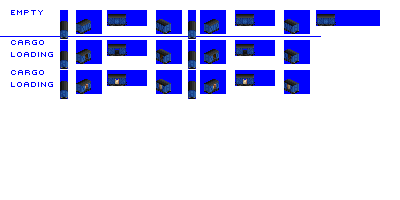
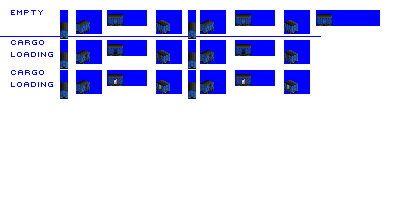
Change: (WIP) test a bunch of vehicles conforming to 4/8, 8/8 and 12/8 lengths

diff --git a/src/vehicles/box_cars.py b/src/vehicles/box_cars.py
@@ -7,36 +7,36 @@ def main():
                          roster = 'pony',
                          base_numeric_id = 550,
                          wagon_generation = 1,
-                                    intro_date = 1860,
+                         intro_date = 1860,
                          vehicle_life = 40)
 
     consist.add_unit(BoxCar(consist = consist,
                             capacity_freight = 20,
                             capacity_mail = 30,
                             weight = 12,
-                            vehicle_length = 5))
+                            vehicle_length = 4))
 
     consist.add_model_variant(intro_date=0,
                            end_date=global_constants.max_game_date,
                            graphics_processor=consist.graphics_processors['pass_through'])
 
     consist.add_model_variant(intro_date=0,
-                           end_date=global_constants.max_game_date,
-                           graphics_processor=consist.graphics_processors['swap_company_colours'])
+                              end_date=global_constants.max_game_date,
+                              graphics_processor=consist.graphics_processors['swap_company_colours'])
 
 
     consist = BoxConsist(title = '[Box Car]',
                          roster = 'pony',
                          base_numeric_id = 560,
                          wagon_generation = 2,
-                                    intro_date = 1950,
+                         intro_date = 1950,
                          vehicle_life = 40)
 
     consist.add_unit(BoxCar(consist = consist,
                             capacity_freight = 35,
                             capacity_mail = 45,
                             weight = 18,
-                            vehicle_length = 6))
+                            vehicle_length = 4))
 
     consist.add_model_variant(intro_date=0,
                            end_date=global_constants.max_game_date,
@@ -51,14 +51,14 @@ def main():
                          roster = 'pony',
                          base_numeric_id = 570,
                          wagon_generation = 3,
-                                    intro_date = 1995,
+                         intro_date = 1995,
                          vehicle_life = 40)
 
     consist.add_unit(BoxCar(consist = consist,
                             capacity_freight = 55,
                             capacity_mail = 65,
                             weight = 25,
-                            vehicle_length = 10))
+                            vehicle_length = 8))
 
     consist.add_model_variant(intro_date=0,
                            end_date=global_constants.max_game_date,

diff --git a/src/vehicles/hopper_cars.py b/src/vehicles/hopper_cars.py
@@ -7,13 +7,13 @@ def main():
                             roster = 'pony',
                             base_numeric_id = 1070,
                             wagon_generation = 1,
-                                          intro_date = 1910,
+                            intro_date = 1910,
                             vehicle_life = 40)
 
     consist.add_unit(Wagon(consist = consist,
                            capacity_freight = 30,
                            weight = 10,
-                           vehicle_length = 5))
+                           vehicle_length = 4))
 
     consist.add_model_variant(intro_date=0,
                            end_date=global_constants.max_game_date,
@@ -28,7 +28,7 @@ def main():
                             roster = 'pony',
                             base_numeric_id = 1080,
                             wagon_generation = 2,
-                                          intro_date = 1955,
+                            intro_date = 1955,
                             vehicle_life = 40)
 
     consist.add_unit(Wagon(consist = consist,
@@ -49,13 +49,13 @@ def main():
                             roster = 'pony',
                             base_numeric_id = 1090,
                             wagon_generation = 3,
-                                          intro_date = 1995,
+                            intro_date = 1995,
                             vehicle_life = 40)
 
     consist.add_unit(Wagon(consist = consist,
                            capacity_freight = 75,
                            weight = 27,
-                           vehicle_length = 10))
+                           vehicle_length = 8))
 
     consist.add_model_variant(intro_date=0,
                            end_date=global_constants.max_game_date,

diff --git a/src/vehicles/edibles_tank_cars.py b/src/vehicles/edibles_tank_cars.py
@@ -7,14 +7,14 @@ def main():
                                  roster = 'pony',
                                  base_numeric_id = 1190,
                                  wagon_generation = 1,
-                                                    intro_date = 1905,
+                                 intro_date = 1905,
                                  vehicle_life = 40,
                                  speedy = True)
 
     consist.add_unit(Wagon(consist = consist,
-                            capacity_freight = 25,
-                            weight = 12,
-                            vehicle_length = 5))
+                           capacity_freight = 25,
+                           weight = 12,
+                           vehicle_length = 4))
 
     consist.add_model_variant(intro_date=0,
                            end_date=global_constants.max_game_date,
@@ -31,14 +31,14 @@ def main():
                                  roster = 'pony',
                                  base_numeric_id = 1200,
                                  wagon_generation = 3,
-                                                    intro_date = 1988,
+                                 intro_date = 1988,
                                  vehicle_life = 40,
                                  speedy = True)
 
     consist.add_unit(Wagon(consist = consist,
-                            capacity_freight = 40,
-                            weight = 30,
-                            vehicle_length = 8))
+                           capacity_freight = 40,
+                           weight = 30,
+                           vehicle_length = 8))
 
     consist.add_model_variant(intro_date=0,
                            end_date=global_constants.max_game_date,

diff --git a/src/vehicles/open_cars.py b/src/vehicles/open_cars.py
@@ -13,7 +13,7 @@ def main():
     consist.add_unit(Wagon(consist = consist,
                             capacity_freight = 20,
                             weight = 7,
-                            vehicle_length = 5))
+                            vehicle_length = 4))
 
     consist.add_model_variant(intro_date=0,
                            end_date=global_constants.max_game_date,
@@ -34,7 +34,7 @@ def main():
     consist.add_unit(Wagon(consist = consist,
                             capacity_freight = 35,
                             weight = 15,
-                            vehicle_length = 6))
+                            vehicle_length = 4))
 
     consist.add_model_variant(intro_date=0,
                            end_date=global_constants.max_game_date,
@@ -55,7 +55,7 @@ def main():
     consist.add_unit(Wagon(consist = consist,
                             capacity_freight = 55,
                             weight = 25,
-                            vehicle_length = 10))
+                            vehicle_length = 8))
 
     consist.add_model_variant(intro_date=0,
                            end_date=global_constants.max_game_date,
@@ -76,7 +76,7 @@ def main():
 
     consist.add_unit(Wagon(consist = consist,
                            capacity_freight = 12,
-                           weight = 3,
+                           weight = 4,
                            vehicle_length = 3))
 
     consist.add_model_variant(intro_date=0,

diff --git a/src/vehicles/aberdare.py b/src/vehicles/aberdare.py
@@ -4,7 +4,7 @@ from train import EngineConsist, SteamLoco, SteamLocoTender
 consist = EngineConsist(id = 'aberdare',
               base_numeric_id = 0,
               title = '2-6-0 Aberdare [Steam]',
-              power = 1400,
+              power = 1250,
               tractive_effort_coefficient = 0.22,
               speed = 65,
               type_base_buy_cost_points = 12, # dibble buy cost for game balance
@@ -13,12 +13,12 @@ consist = EngineConsist(id = 'aberdare',
 
 consist.add_unit(SteamLoco(consist = consist,
                         weight = 67,
-                        vehicle_length = 6,
+                        vehicle_length = 5,
                         spriterow_num = 0))
 
 consist.add_unit(SteamLocoTender(consist = consist,
                         weight = 40,
-                        vehicle_length = 4,
+                        vehicle_length = 3,
                         spriterow_num = 1))
 
 consist.add_model_variant(intro_date=0,

diff --git a/src/vehicles/chinook.py b/src/vehicles/chinook.py
@@ -4,20 +4,20 @@ from train import EngineConsist, DieselLoco
 consist = EngineConsist(id = 'chinook',
               base_numeric_id = 120,
               title = 'Chinook [Diesel]',
-              power = 2100,
+              power = 3000,
               speed = 85,
               type_base_buy_cost_points = 16, # dibble buy cost for game balance
               vehicle_life = 40,
-              intro_date = 1955)
+              intro_date = 1960)
 
 consist.add_unit(DieselLoco(consist = consist,
                         weight = 80,
-                        vehicle_length = 7,
+                        vehicle_length = 6,
                         spriterow_num = 0))
 
 consist.add_unit(DieselLoco(consist = consist,
                         weight = 80,
-                        vehicle_length = 7,
+                        vehicle_length = 6,
                         spriterow_num = 1))
 
 consist.add_model_variant(intro_date=0,

diff --git a/src/vehicles/flat_cars.py b/src/vehicles/flat_cars.py
@@ -13,7 +13,7 @@ def main():
     consist.add_unit(Wagon(consist = consist,
                            capacity_freight = 20,
                            weight = 6,
-                           vehicle_length = 5))
+                           vehicle_length = 4))
 
     consist.add_model_variant(intro_date=0,
                            end_date=global_constants.max_game_date,
@@ -55,7 +55,7 @@ def main():
     consist.add_unit(Wagon(consist = consist,
                            capacity_freight = 55,
                            weight = 25,
-                           vehicle_length = 10))
+                           vehicle_length = 8))
 
     consist.add_model_variant(intro_date=0,
                            end_date=global_constants.max_game_date,

diff --git a/src/vehicles/bertha.py b/src/vehicles/bertha.py
@@ -4,7 +4,7 @@ from train import EngineConsist, SteamLoco, SteamLocoTender
 consist = EngineConsist(id = 'bertha',
               base_numeric_id = 70,
               title = '0-10-0 Big Bertha [Steam]',
-              power = 1650,
+              power = 1800,
               tractive_effort_coefficient = 0.33,
               speed = 45,
               type_base_buy_cost_points = 10, # dibble buy cost for game balance
@@ -13,7 +13,7 @@ consist = EngineConsist(id = 'bertha',
 
 consist.add_unit(SteamLoco(consist = consist,
                         weight = 95,
-                        vehicle_length = 7,
+                        vehicle_length = 8,
                         spriterow_num = 0))
 
 consist.add_unit(SteamLocoTender(consist = consist,

diff --git a/src/vehicles/gridiron.py b/src/vehicles/gridiron.py
@@ -4,12 +4,12 @@ from train import EngineConsist, DieselLoco
 consist = EngineConsist(id = 'gridiron',
               base_numeric_id = 220,
               title = 'Gridiron [Diesel]',
-              power = 3700,
+              power = 3600,
               tractive_effort_coefficient = 0.4, #dibble for game balance, assume super-slip control
               speed = 85,
               type_base_buy_cost_points = 30, # dibble buy cost for game balance
               vehicle_life = 40,
-              intro_date = 1975)
+              intro_date = 1990)
 
 consist.add_unit(DieselLoco(consist = consist,
                         weight = 125,

diff --git a/src/vehicles/vulcan.py b/src/vehicles/vulcan.py
@@ -4,12 +4,12 @@ from train import EngineConsist, DieselLoco
 consist = EngineConsist(id = 'vulcan',
               base_numeric_id = 420,
               title = 'Vulcan [Diesel]',
-              power = 2700,
+              power = 2300,
               speed = 100,
               type_base_buy_cost_points = 25, # dibble buy cost for game balance
               type_base_running_cost_points = 25, # dibble running costs for game balance
               vehicle_life = 40,
-              intro_date = 1963)
+              intro_date = 1960)
 
 consist.add_unit(DieselLoco(consist = consist,
                         weight = 105,

diff --git a/src/vehicles/ramsbottom.py b/src/vehicles/ramsbottom.py
@@ -13,12 +13,12 @@ consist = EngineConsist(id = 'ramsbottom',
 
 consist.add_unit(SteamLoco(consist = consist,
                         weight = 59,
-                        vehicle_length = 6,
+                        vehicle_length = 5,
                         spriterow_num = 0))
 
 consist.add_unit(SteamLocoTender(consist = consist,
                         weight = 30,
-                        vehicle_length = 4,
+                        vehicle_length = 3,
                         spriterow_num = 1))
 
 consist.add_model_variant(intro_date=0,

diff --git a/src/vehicles/standard.py b/src/vehicles/standard.py
@@ -13,12 +13,12 @@ consist = EngineConsist(id = 'standard',
 
 consist.add_unit(SteamLoco(consist = consist,
                         weight = 62,
-                        vehicle_length = 6,
+                        vehicle_length = 5,
                         spriterow_num = 0))
 
 consist.add_unit(SteamLocoTender(consist = consist,
                         weight = 30,
-                        vehicle_length = 4,
+                        vehicle_length = 3,
                         spriterow_num = 1))
 
 consist.add_model_variant(intro_date=0,
